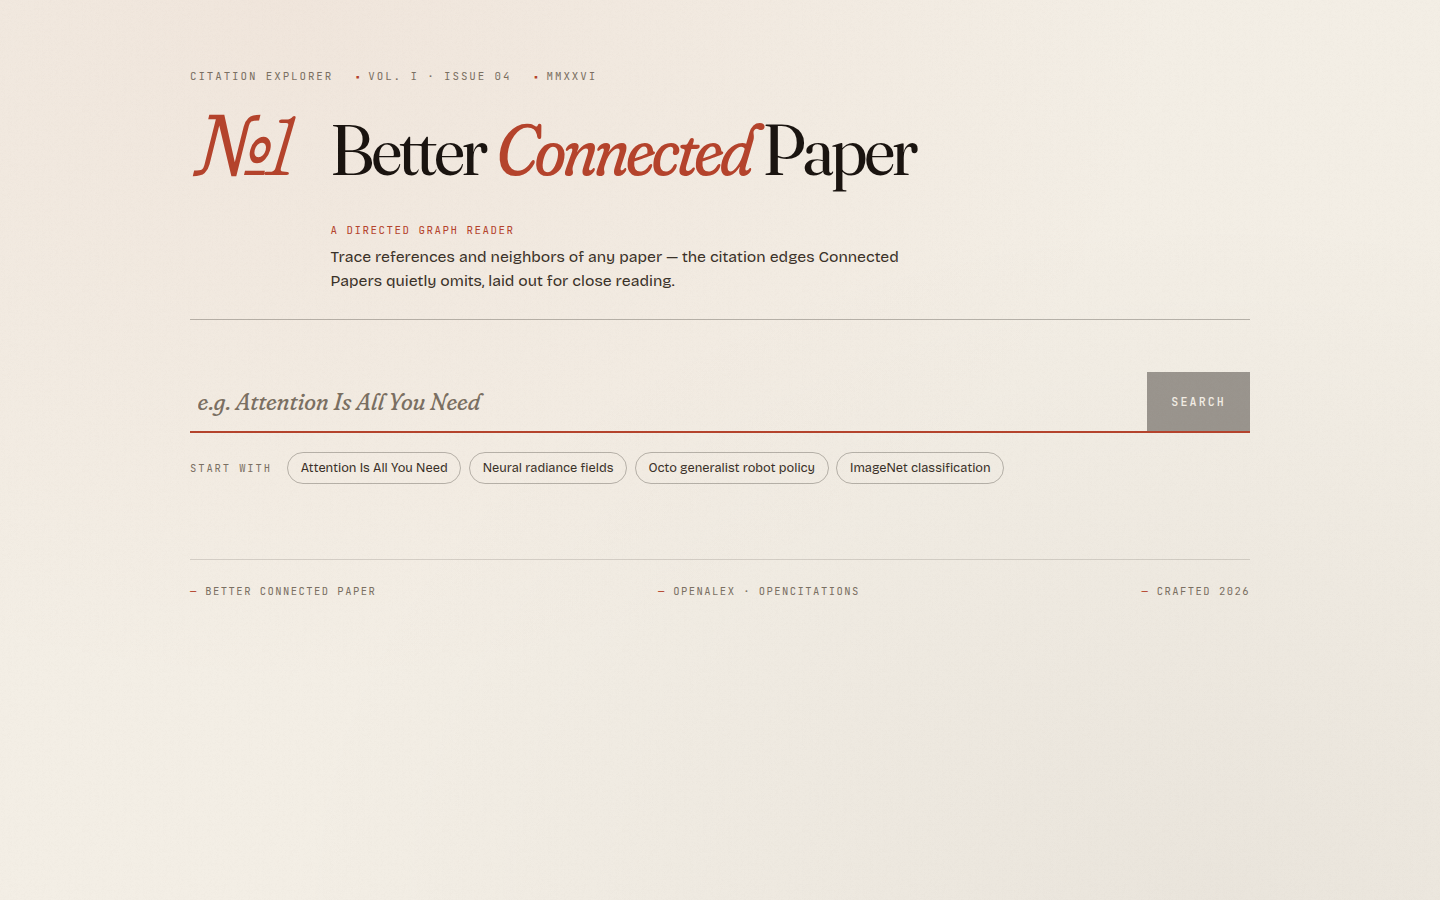
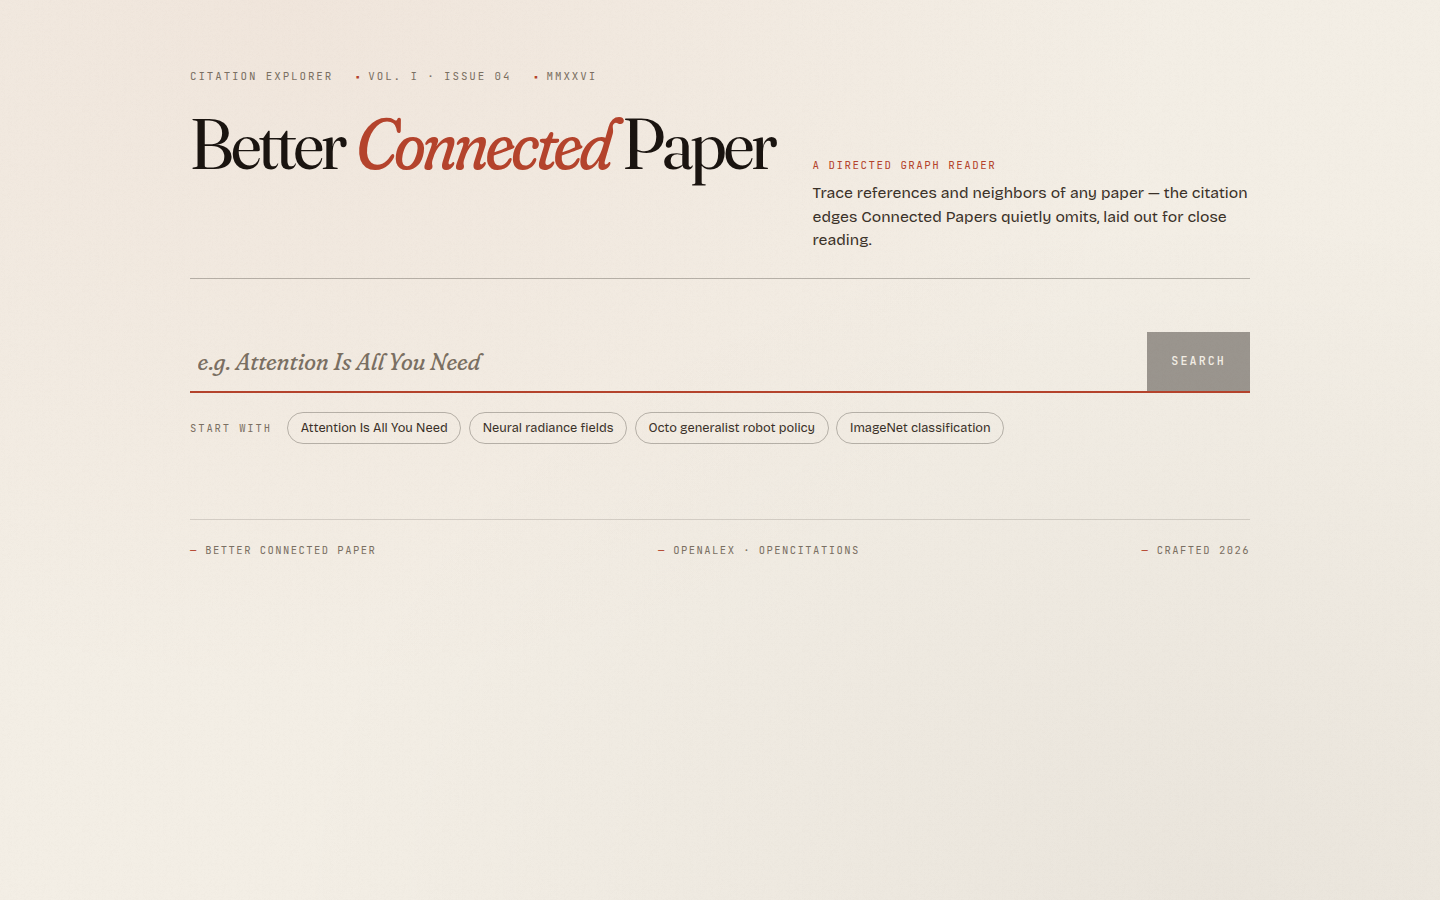
feat(frontend): remove masthead №1 numeral
The issue numeral added visual weight without carrying any real
information. Drop the <div> from App.tsx and its unused CSS
block from index.css, and refresh docs/images/home.png with the
cleaner landing page.

diff --git a/frontend/src/index.css b/frontend/src/index.css
@@ -116,17 +116,6 @@ button {
   content: none;
 }
 
-.masthead-numeral {
-  font-family: var(--font-display);
-  font-size: clamp(3.2rem, 7vw, 5.5rem);
-  font-weight: 300;
-  font-style: italic;
-  font-variation-settings: "opsz" 144, "SOFT" 100;
-  line-height: 0.85;
-  color: var(--accent);
-  letter-spacing: -0.03em;
-}
-
 .masthead-title {
   font-family: var(--font-display);
   font-weight: 400;

diff --git a/frontend/src/App.tsx b/frontend/src/App.tsx
@@ -129,9 +129,6 @@ export default function App() {
           <span>Vol. I · Issue 04</span>
           <span>MMXXVI</span>
         </div>
-        <div className="masthead-numeral" aria-hidden="true">
-          №1
-        </div>
         <h1 className="masthead-title">
           Better <em>Connected</em> Paper
         </h1>
